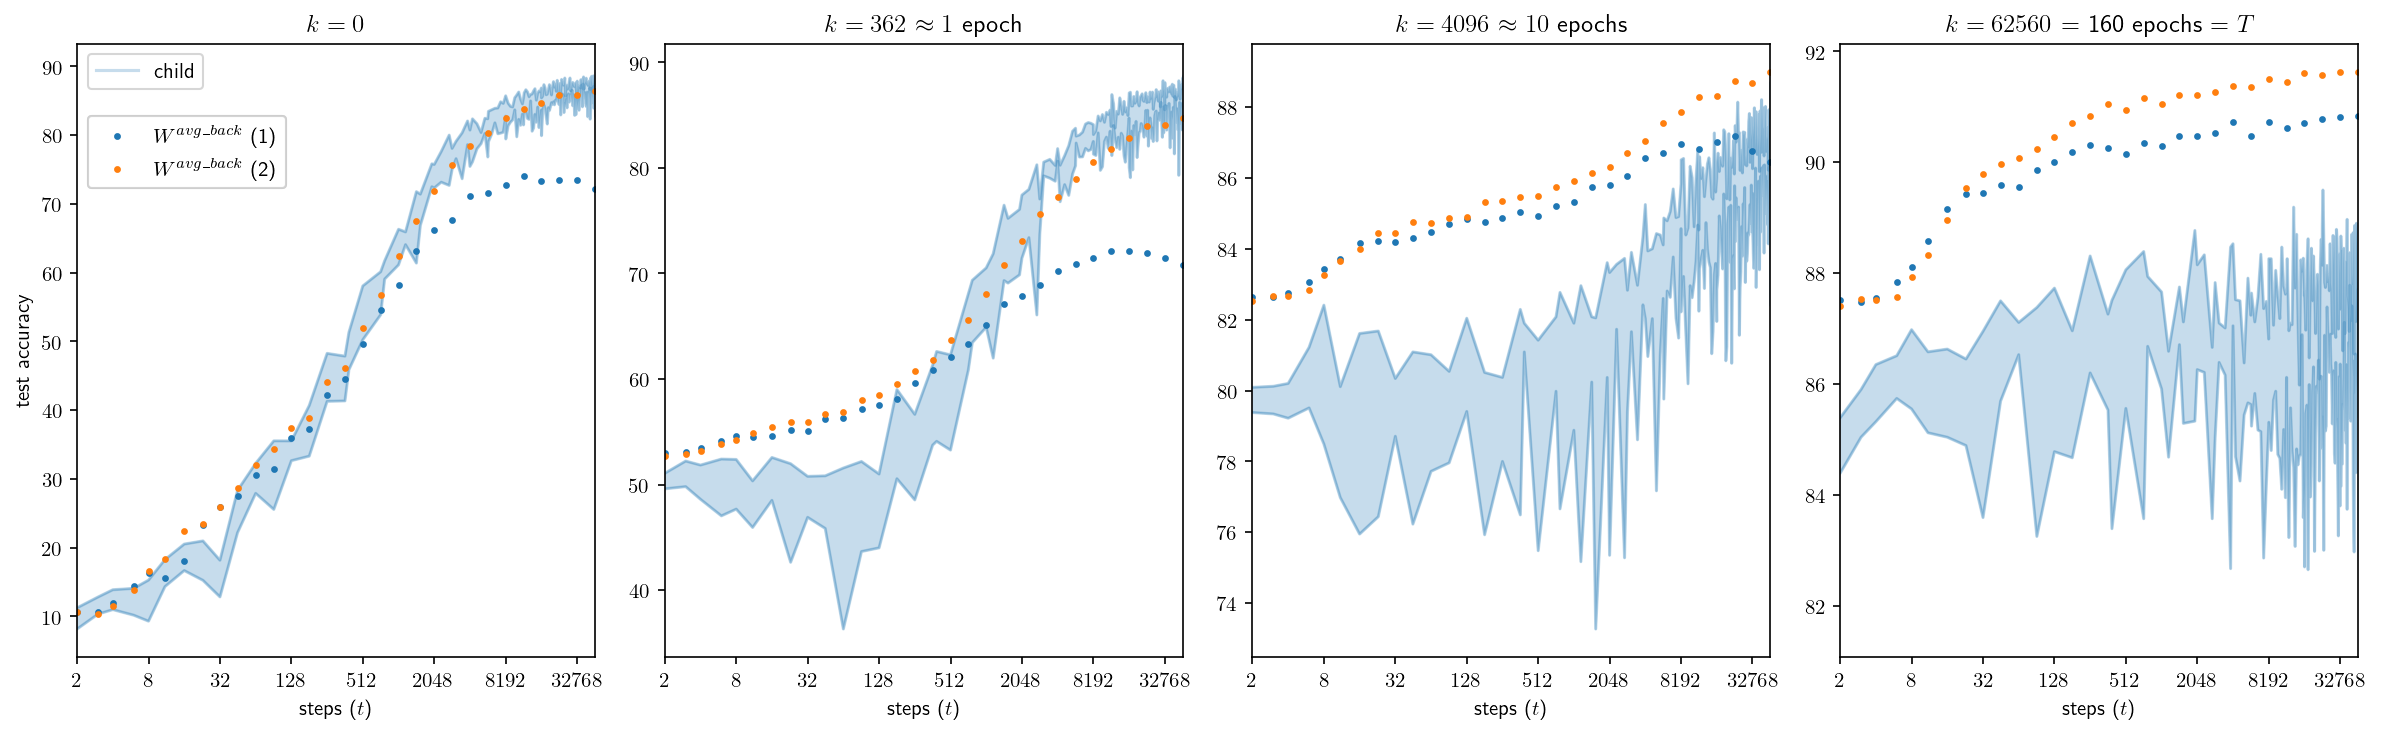
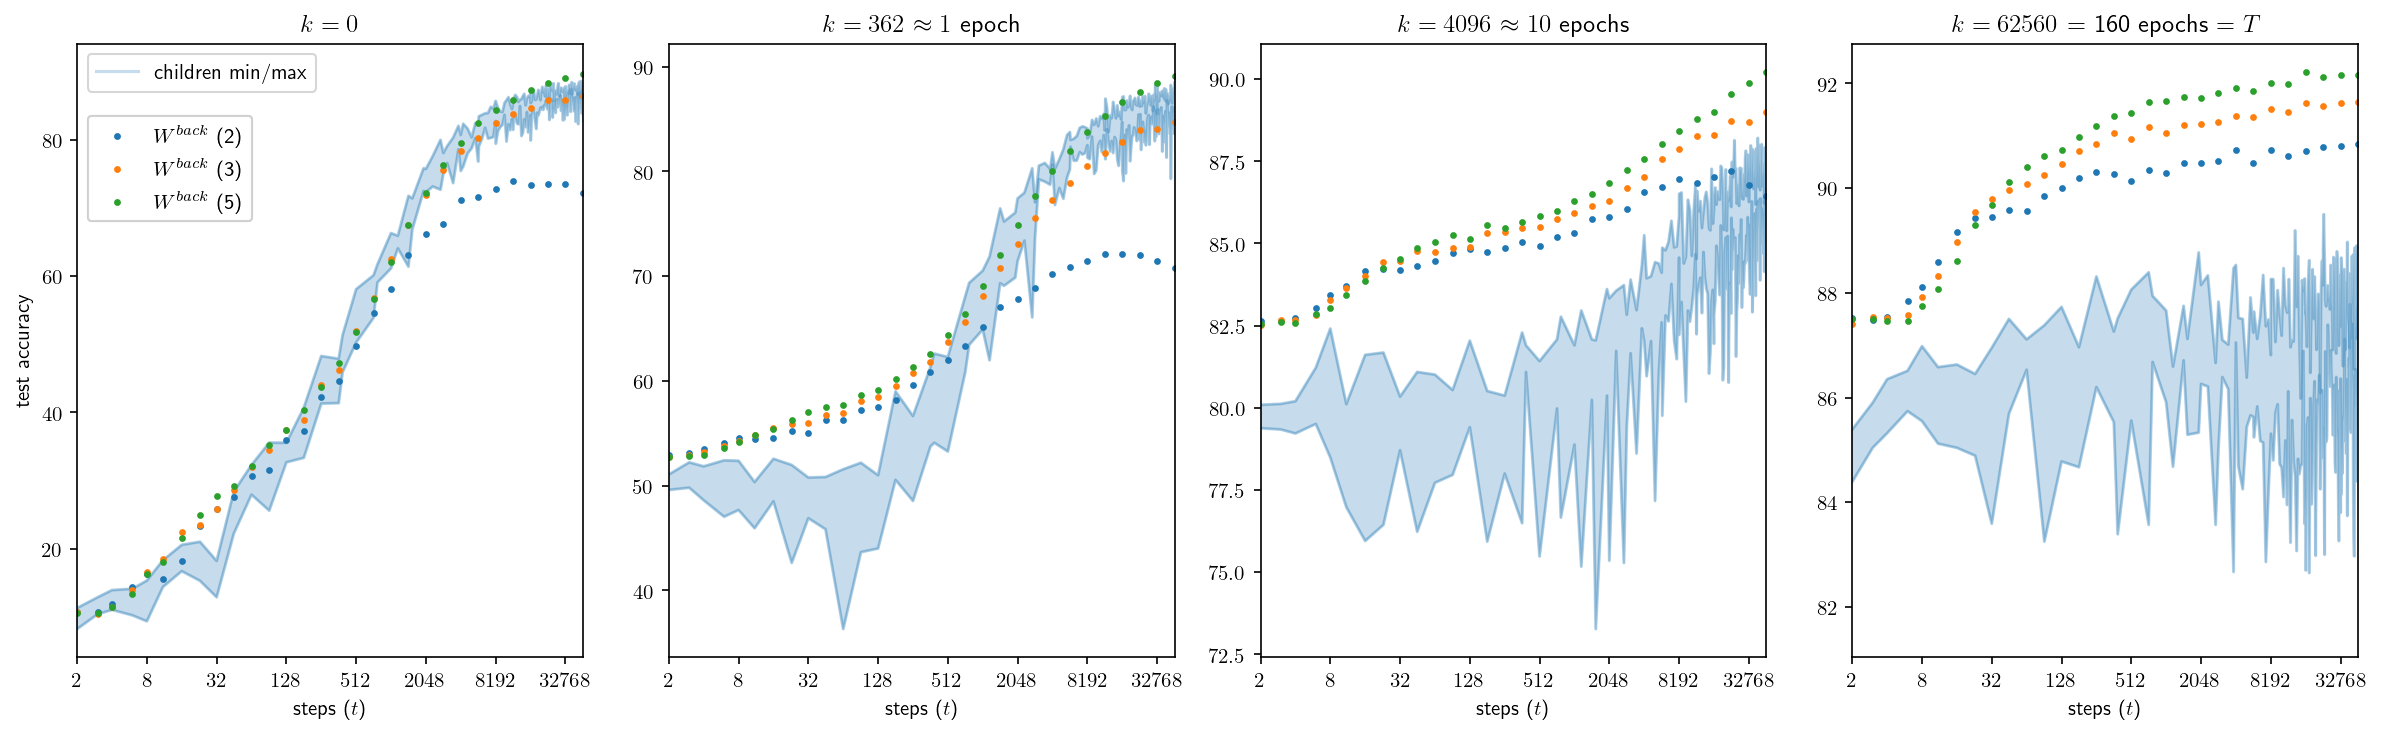
eval every 10 for split merge

diff --git a/split_merge/runner.py b/split_merge/runner.py
@@ -84,12 +84,12 @@ class SplitMergeRunner:
                     model, output_location, 
                     self.child_dataset_hparams(leg_i), training_hparams, 
                     pretrain_output_location, self.parent_train_end_step(leg_i), 
-                    pretrain_load_only_model_weights=True)
+                    pretrain_load_only_model_weights=True, evaluate_every_10=True)
             else:
                 train.standard_train(
                     model, output_location, 
                     self.child_dataset_hparams(leg_i), training_hparams, 
-                    pretrain_output_location, self.parent_train_end_step(leg_i))
+                    pretrain_output_location, self.parent_train_end_step(leg_i), evaluate_every_10=True)
 
     def _train_parent(self, leg_i):
         indent = " " * 1
@@ -114,12 +114,12 @@ class SplitMergeRunner:
                     model, output_location, self.parent_dataset_hparams(leg_i), 
                     training_hparams, pretrain_output_location, 
                     self.child_train_end_step(leg_i - 1),
-                    pretrain_load_only_model_weights=True)
+                    pretrain_load_only_model_weights=True, evaluate_every_10=True)
             else:
                 train.standard_train(
                     model, output_location, self.parent_dataset_hparams(leg_i), 
                     training_hparams, pretrain_output_location, 
-                    self.child_train_end_step(leg_i - 1))
+                    self.child_train_end_step(leg_i - 1), evaluate_every_10=True)
 
     def _merge_children(self, leg_i):
         indent = " " * 2

diff --git a/training/train.py b/training/train.py
@@ -83,7 +83,7 @@ def standard_train(
   start_step: Step = None,
   verbose: bool = True,
   end_step: Step = None,
-  evaluate_every_10: bool = True
+  evaluate_every_10: bool = False
 ):
     """Train using the standard callbacks according to the provided hparams."""
 
